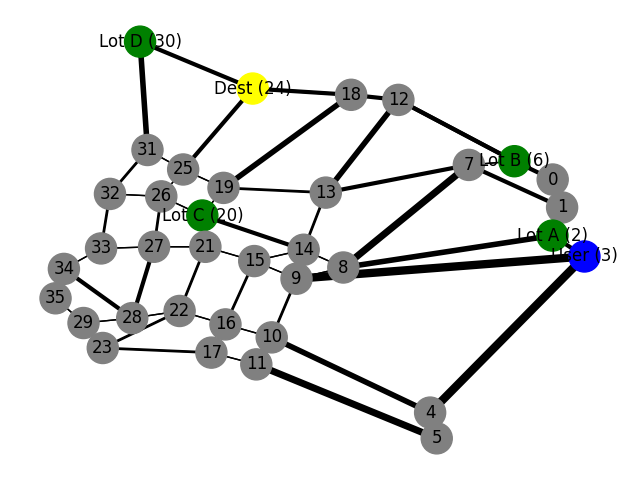
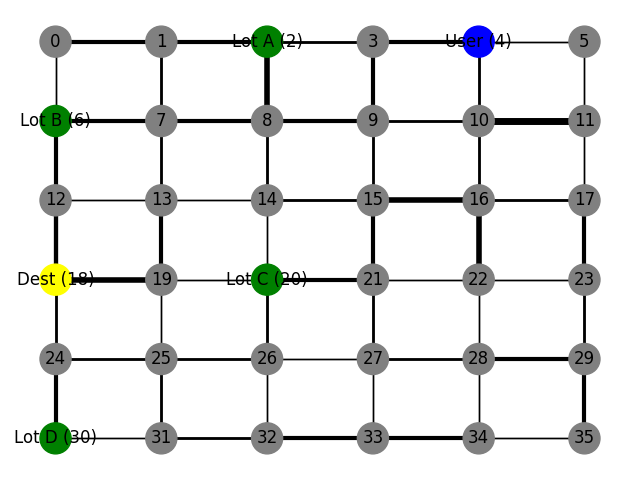
Wed, Apr 30, 2025, 5:49 PM -04:00

Changed region(s): [[0.0312, 0.0312, 0.9688, 0.9688]]

diff --git a/visualize.py b/visualize.py
@@ -2,8 +2,8 @@ import matplotlib.pyplot as plt
 import networkx as nx
 
 # This was made with the help of ChatGPT to demonstrate how my code works
-def show_city_map(G, parking_lots, user_node, destination_node, path=None):
-    pos = nx.kamada_kawai_layout(G, weight='weight')
+def show_city_map(G, parking_lots, user_node, destination_node, path=None, size=6):
+    pos = {i * size + j: (j, -i) for i in range(size) for j in range(size)}  # grid layout
     colors = []
     labels = {}
 
@@ -20,16 +20,13 @@ def show_city_map(G, parking_lots, user_node, destination_node, path=None):
             labels[node] = f"{lot['name']} ({node})"
         else:
             colors.append("gray")
-            labels[node] = str(node)  # Just the node number for regular nodes
+            labels[node] = str(node)
 
-    # Draw nodes with colors and labels
     nx.draw(G, pos, node_color=colors, labels=labels, with_labels=True, node_size=500)
 
-    # Draw all edges with widths based on weights
     weights = [G[u][v]['weight'] for u, v in G.edges()]
     nx.draw_networkx_edges(G, pos, width=[w for w in weights])
 
-    # Highlight the shortest path if provided
     if path:
         edge_path = list(zip(path, path[1:]))
         nx.draw_networkx_edges(G, pos, edgelist=edge_path, edge_color="black", width=3)
